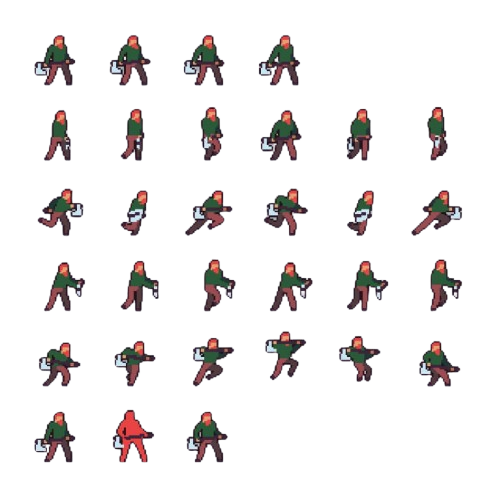
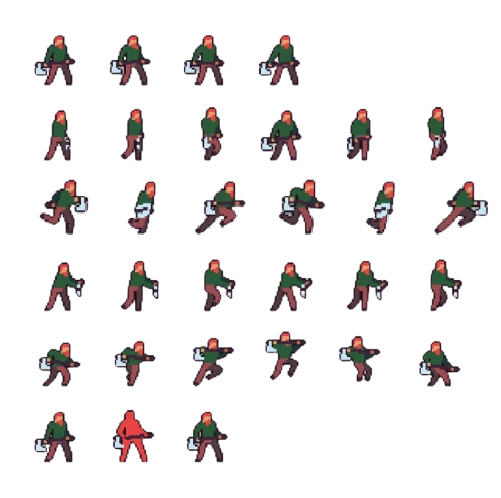
.

diff --git a/animation_viewer.py b/animation_viewer.py
@@ -9,7 +9,7 @@ def work():
     for i in range(5):
         for frame in range(6):
             clear_canvas()
-            character.clip_draw(20+frame * 75, y_cange(240), 70,60, 400, 300,200,200)
+            character.clip_draw(20+frame * 75, y_cange(160), 70,60, 400, 300,200,200)
             update_canvas()
             delay(0.1)
     delay(1.0)
